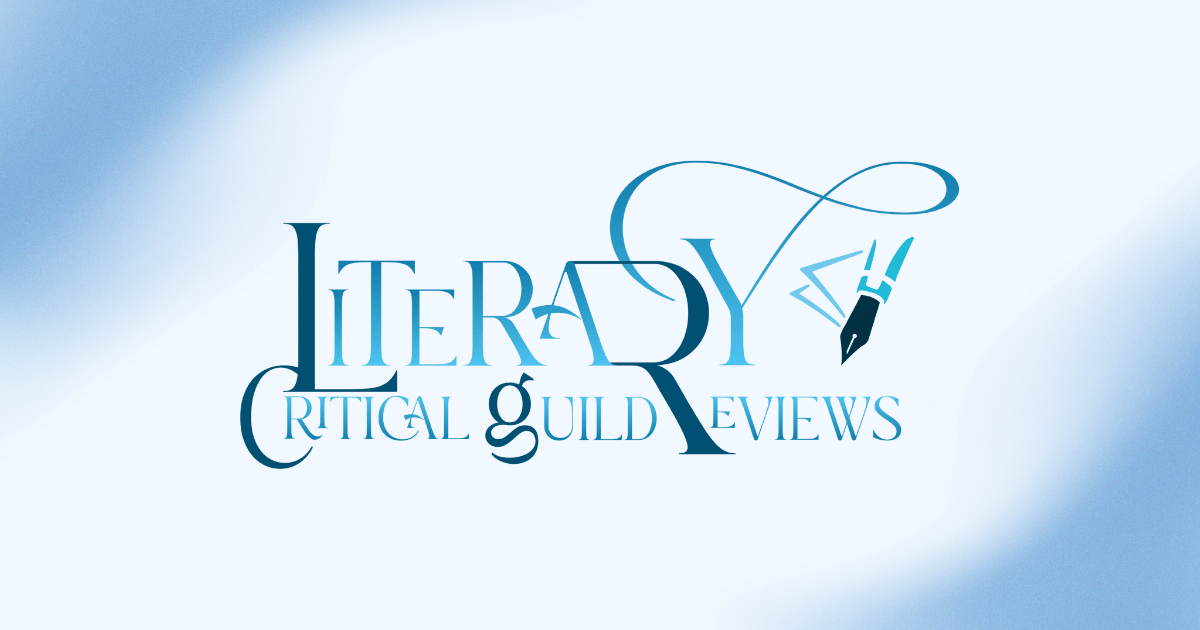
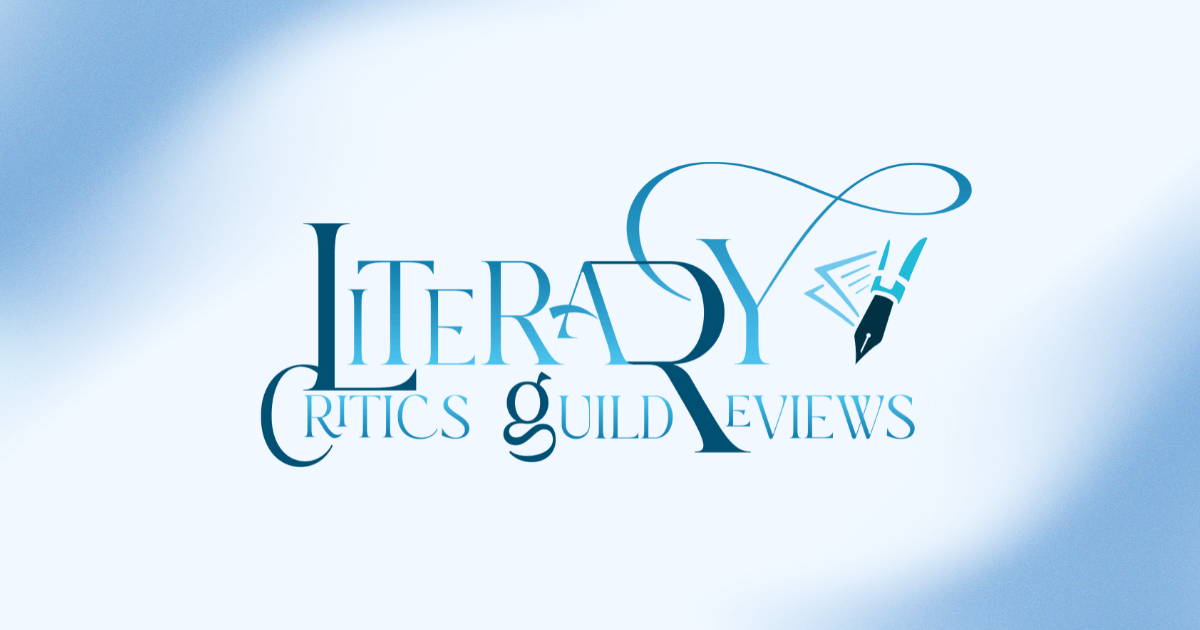
major updates

Changed region(s): [[0.185, 0.2413, 0.8325, 0.754]]

diff --git a/resources/views/layouts/app.blade.php b/resources/views/layouts/app.blade.php
@@ -6,18 +6,18 @@
 <head>
     <meta charset="utf-8">
     <meta http-equiv="x-ua-compatible" content="ie=edge">
-    <title>@yield('title') | Literary Critical Guild Reviews</title>
+    <title>@yield('title') | Literary Critics Guild Reviews</title>
     <meta name="viewport" content="width=device-width, initial-scale=1">
     <link rel="shortcut icon" type="image/x-icon" href="{{ asset('guestAssets/imgs/theme/favicon.png') }}">
 
-    <meta name="description" content="Literary Critical Guild Reviews offers in-depth reviews that explore literature's worlds and perspectives. Boost visibility and sales for both new and established books." />
-    <meta name="keywords" content="book reviews,professional book review service,literature,book marketing,author visibility,sales boost,new books,established authors,literary reviews,book discovery,in-depth book analysis,reading,book recommendations,literary critical guild reviews" />
-    <meta name="author" content="Literary Critical Guild Reviews" />
+    <meta name="description" content="Literary Critics Guild Reviews offers in-depth reviews that explore literature's worlds and perspectives. Boost visibility and sales for both new and established books." />
+    <meta name="keywords" content="book reviews,professional book review service,literature,book marketing,author visibility,sales boost,new books,established authors,literary reviews,book discovery,in-depth book analysis,reading,book recommendations,literary critics guild reviews" />
+    <meta name="author" content="Literary Critics Guild Reviews" />
 
-    <meta property="og:title" content="Literary Critical Guild Reviews" />
+    <meta property="og:title" content="Literary Critics Guild Reviews" />
     <meta property="og:type" content="website" />
-    <meta property="og:site_name" content="Literary Critical Guild Reviews" />
-    <meta property="og:description" content="Literary Critical Guild Reviews offers in-depth reviews that explore literature's worlds and perspectives. Boost visibility and sales for both new and established books." />
+    <meta property="og:site_name" content="Literary Critics Guild Reviews" />
+    <meta property="og:description" content="Literary Critics Guild Reviews offers in-depth reviews that explore literature's worlds and perspectives. Boost visibility and sales for both new and established books." />
     <meta property="og:image" content="{{ asset('guestAssets/imgs/theme/og_banner.png') }}"/>
 
     <!-- Site CSS  -->
@@ -59,7 +59,7 @@
             <div class="container">
                 <div class="row pt-20 pb-20">
                     <div class="col-md-3 col-xs-6">
-                        <a href="{{ route('home') }}"><img class="logo" width="110" src="{{ asset('guestAssets/imgs/theme/logo.png') }}" alt=""></a>
+                        <a href="{{ route('home') }}"><img class="logo" width="125" src="{{ asset('guestAssets/imgs/theme/logo.png') }}" alt=""></a>
                     </div>
                     <div class="col-md-9 col-xs-6 text-right header-top-right ">
                         <button class="search-icon d-md-inline"><span class="mr-15 text-muted"><i class="elegant-icon icon_search mr-5"></i>Search</span></button>
@@ -189,8 +189,55 @@
     <!-- Footer start -->
     <footer class="pt-50 pb-20">
         <div class="container">
+            <div class="row">
+                <div class="col-lg-3 col-md-6">
+                    <div class="sidebar-widget wow fadeInUp animated mb-30">
+                        <div class="widget-header-2 position-relative mb-30">
+                            <h5 class="mt-5 mb-30">About</h5>
+                        </div>
+                        <div class="textwidget">
+                            <h6><strong>Literary Critics Guild Reviews</strong></h6>
+                            <p>
+                                <i>We believe in the power of stories to transform and connect us.</i>
+                            </p>
+                            <p><strong class="color-black">Follow us</strong><br>
+                                <ul class="header-social-network d-inline-block list-inline color-white mb-20">
+                                    <li class="list-inline-item"><a class="fb" href="javascript:void(0)" title="Facebook"><i class="elegant-icon social_facebook"></i></a></li>
+                                </ul>
+                        </div>
+                    </div>
+                </div>
+                <div class="col-lg-2 col-md-6">
+                    <div class="sidebar-widget widget_categories wow fadeInUp animated mb-30" data-wow-delay="0.1s">
+                        <div class="widget-header-2 position-relative mb-30">
+                            <h5 class="mt-5 mb-30">Quick links</h5>
+                        </div>
+                        <ul class="font-small">
+                            <li class="cat-item cat-item-2"><a href="{{ route('home') }}">Home</a></li>
+                            <li class="cat-item cat-item-4"><a href="{{ route('latestReviewsPage') }}">Latest Reviews</a></li>
+                            <li class="cat-item cat-item-5"><a href="{{ route('contactUs') }}">Contact Us</a></li>
+                            <li class="cat-item cat-item-6"><a href="{{ route('aboutUs') }}">About Us</a></li>
+                            <li class="cat-item cat-item-7"><a href="{{ route('login') }}">Log in to Your Account</a></li>
+                        </ul>
+                    </div>
+                </div>
+                <div class="col-lg-4 col-md-6">
+                    <div class="sidebar-widget widget_newsletter wow fadeInUp animated mb-30" data-wow-delay="0.3s">
+                        <div class="widget-header-2 position-relative mb-30">
+                            <h5 class="mt-5 mb-30">Newsletter</h5>
+                        </div>
+                        <div class="newsletter">
+                            <p class="font-medium">Subscribe to our newsletter and get our newest updates right on your inbox.</p>
+                            <form class="input-group form-subcriber mt-30 d-flex">
+                                <input type="email" class="form-control bg-white font-small" placeholder="Enter your email">
+                                <button class="btn bg-primary text-white" type="submit">Subscribe</button>
+                            </form>
+                        </div>
+                    </div>
+                </div>
+            </div>
             <div class="footer-copy-right pt-30 mt-20 wow fadeInUp animated">
-                <p class="float-md-left font-medium text-muted">© 2024 Literary Critical Guild Reviews</p>
+                <p class="float-md-left font-small text-muted">© 2024 Literary Critics Guild Reviews</p>
             </div>
         </div>
     </footer>

diff --git a/resources/views/auth/admin-login.blade.php b/resources/views/auth/admin-login.blade.php
@@ -3,17 +3,17 @@
 
 <head>
     <meta charset="utf-8" />
-    <title>Login | Literary Critical Guild Reviews CMS</title>
+    <title>Login | Literary Critics Guild Reviews CMS</title>
     <meta name="viewport" content="width=device-width, initial-scale=1.0">
-    <meta name="description" content="Literary Critical Guild Reviews offers in-depth reviews that explore literature's worlds and perspectives. Boost visibility and sales for both new and established books." />
-    <meta name="keywords" content="book reviews,professional book review service,literature,book marketing,author visibility,sales boost,new books,established authors,literary reviews,book discovery,in-depth book analysis,reading,book recommendations,literary critical guild reviews" />
-    <meta name="author" content="Literary Critical Guild Reviews" />
+    <meta name="description" content="Literary Critics Guild Reviews offers in-depth reviews that explore literature's worlds and perspectives. Boost visibility and sales for both new and established books." />
+    <meta name="keywords" content="book reviews,professional book review service,literature,book marketing,author visibility,sales boost,new books,established authors,literary reviews,book discovery,in-depth book analysis,reading,book recommendations,literary critics guild reviews" />
+    <meta name="author" content="Literary Critics Guild Reviews" />
 
-    <meta property="og:title" content="Literary Critical Guild Reviews"/>
+    <meta property="og:title" content="Literary Critics Guild Reviews"/>
     <meta property="og:type" content="website"/>
     <!-- <meta property="og:url" content="https://www.yoursite.com/"/> -->
-    <meta property="og:site_name" content="Literary Critical Guild Reviews"/>
-    <meta property="og:description" content="Literary Critical Guild Reviews offers in-depth reviews that explore literature's worlds and perspectives. Boost visibility and sales for both new and established books."/>
+    <meta property="og:site_name" content="Literary Critics Guild Reviews"/>
+    <meta property="og:description" content="Literary Critics Guild Reviews offers in-depth reviews that explore literature's worlds and perspectives. Boost visibility and sales for both new and established books."/>
     <meta property="og:image" content="{{ asset('guestAssets/imgs/theme/og_banner.png') }}"/>
 
     <!-- App favicon -->
@@ -45,7 +45,7 @@
                                         <a href="index.html">
                                             <img src="{{ asset('adminAssets/images/logo-dark.png') }}" height="40" alt="logo">
                                         </a>
-                                        <h5 class="text-primary mb-2 mt-4">Welcome to Literary Critical Guild Reviews CMS!</h5>
+                                        <h5 class="text-primary mb-2 mt-4">Welcome to Literary Critics Guild Reviews CMS!</h5>
                                         <p class="text-muted">Sign in to continue</p>
                                     </div>
 
@@ -84,7 +84,7 @@
 
                         <div class="mt-5 text-center text-white">
                             <!-- <p>Don't have an account?<a href="#" class="fw-bold text-white"> Register</a> </p> -->
-                            <p>© <script>document.write(new Date().getFullYear())</script> Literary Critical Guild Reviews CMS</p>
+                            <p>© <script>document.write(new Date().getFullYear())</script> Literary Critics Guild Reviews CMS</p>
                         </div>
                     </div>
                 </div>

diff --git a/resources/views/admin-pages/unauthorized.blade.php b/resources/views/admin-pages/unauthorized.blade.php
@@ -3,17 +3,17 @@
 
 <head>
     <meta charset="utf-8" />
-    <title>Unauthorized | Literary Critical Guild Reviews CMS</title>
+    <title>Unauthorized | Literary Critics Guild Reviews CMS</title>
     <meta name="viewport" content="width=device-width, initial-scale=1.0">
-    <meta name="description" content="Literary Critical Guild Reviews offers in-depth reviews that explore literature's worlds and perspectives. Boost visibility and sales for both new and established books." />
-    <meta name="keywords" content="book reviews,professional book review service,literature,book marketing,author visibility,sales boost,new books,established authors,literary reviews,book discovery,in-depth book analysis,reading,book recommendations,literary critical guild reviews" />
-    <meta name="author" content="Literary Critical Guild Reviews" />
+    <meta name="description" content="Literary Critics Guild Reviews offers in-depth reviews that explore literature's worlds and perspectives. Boost visibility and sales for both new and established books." />
+    <meta name="keywords" content="book reviews,professional book review service,literature,book marketing,author visibility,sales boost,new books,established authors,literary reviews,book discovery,in-depth book analysis,reading,book recommendations,literary critics guild reviews" />
+    <meta name="author" content="Literary Critics Guild Reviews" />
 
-    <meta property="og:title" content="Literary Critical Guild Reviews"/>
+    <meta property="og:title" content="Literary Critics Guild Reviews"/>
     <meta property="og:type" content="website"/>
     <!-- <meta property="og:url" content="https://www.yoursite.com/"/> -->
-    <meta property="og:site_name" content="Literary Critical Guild Reviews"/>
-    <meta property="og:description" content="Literary Critical Guild Reviews offers in-depth reviews that explore literature's worlds and perspectives. Boost visibility and sales for both new and established books."/>
+    <meta property="og:site_name" content="Literary Critics Guild Reviews"/>
+    <meta property="og:description" content="Literary Critics Guild Reviews offers in-depth reviews that explore literature's worlds and perspectives. Boost visibility and sales for both new and established books."/>
     <meta property="og:image" content="{{ asset('guestAssets/imgs/theme/og_banner.png') }}"/>
 
     <!-- App favicon -->
@@ -47,7 +47,7 @@
                             </div>
                         </div>
                         <div class="mt-5 text-center text-white">
-                            <p>© <script>document.write(new Date().getFullYear())</script> Literary Critical Guild Reviews CMS</p>
+                            <p>© <script>document.write(new Date().getFullYear())</script> Literary Critics Guild Reviews CMS</p>
                         </div>
                     </div>
                 </div>

diff --git a/resources/views/admin-pages/maintenance.blade.php b/resources/views/admin-pages/maintenance.blade.php
@@ -3,17 +3,17 @@
 
 <head>
     <meta charset="utf-8" />
-    <title>Maintenance | Literary Critical Guild Reviews CMS</title>
+    <title>Maintenance | Literary Critics Guild Reviews CMS</title>
     <meta name="viewport" content="width=device-width, initial-scale=1.0">
-    <meta name="description" content="Literary Critical Guild Reviews offers in-depth reviews that explore literature's worlds and perspectives. Boost visibility and sales for both new and established books." />
-    <meta name="keywords" content="book reviews,professional book review service,literature,book marketing,author visibility,sales boost,new books,established authors,literary reviews,book discovery,in-depth book analysis,reading,book recommendations,literary critical guild reviews" />
-    <meta name="author" content="Literary Critical Guild Reviews" />
+    <meta name="description" content="Literary Critics Guild Reviews offers in-depth reviews that explore literature's worlds and perspectives. Boost visibility and sales for both new and established books." />
+    <meta name="keywords" content="book reviews,professional book review service,literature,book marketing,author visibility,sales boost,new books,established authors,literary reviews,book discovery,in-depth book analysis,reading,book recommendations,literary critics guild reviews" />
+    <meta name="author" content="Literary Critics Guild Reviews" />
 
-    <meta property="og:title" content="Literary Critical Guild Reviews"/>
+    <meta property="og:title" content="Literary Critics Guild Reviews"/>
     <meta property="og:type" content="website"/>
     <!-- <meta property="og:url" content="https://www.yoursite.com/"/> -->
-    <meta property="og:site_name" content="Literary Critical Guild Reviews"/>
-    <meta property="og:description" content="Literary Critical Guild Reviews offers in-depth reviews that explore literature's worlds and perspectives. Boost visibility and sales for both new and established books."/>
+    <meta property="og:site_name" content="Literary Critics Guild Reviews"/>
+    <meta property="og:description" content="Literary Critics Guild Reviews offers in-depth reviews that explore literature's worlds and perspectives. Boost visibility and sales for both new and established books."/>
     <meta property="og:image" content="{{ asset('guestAssets/imgs/theme/og_banner.png') }}"/>
 
     <!-- App favicon -->
@@ -47,7 +47,7 @@
                         </div>
 
                         <div class="mt-5 text-center text-white">
-                            <p>© <script>document.write(new Date().getFullYear())</script> Literary Critical Guild Reviews CMS</p>
+                            <p>© <script>document.write(new Date().getFullYear())</script> Literary Critics Guild Reviews CMS</p>
                         </div>
                     </div>
                 </div>

diff --git a/resources/views/layouts/sidebar.blade.php b/resources/views/layouts/sidebar.blade.php
@@ -5,17 +5,17 @@
 
 <head>
     <meta charset="utf-8" />
-    <title>@yield('title') | Literary Critical Guild Reviews</title>
+    <title>@yield('title') | Literary Critics Guild Reviews</title>
     <meta name="viewport" content="width=device-width, initial-scale=1.0">
-    <meta name="description" content="Literary Critical Guild Reviews offers in-depth reviews that explore literature's worlds and perspectives. Boost visibility and sales for both new and established books." />
-    <meta name="keywords" content="book reviews,professional book review service,literature,book marketing,author visibility,sales boost,new books,established authors,literary reviews,book discovery,in-depth book analysis,reading,book recommendations,literary critical guild reviews" />
-    <meta name="author" content="Literary Critical Guild Reviews" />
+    <meta name="description" content="Literary Critics Guild Reviews offers in-depth reviews that explore literature's worlds and perspectives. Boost visibility and sales for both new and established books." />
+    <meta name="keywords" content="book reviews,professional book review service,literature,book marketing,author visibility,sales boost,new books,established authors,literary reviews,book discovery,in-depth book analysis,reading,book recommendations,literary critics guild reviews" />
+    <meta name="author" content="Literary Critics Guild Reviews" />
 
-    <meta property="og:title" content="Literary Critical Guild Reviews"/>
+    <meta property="og:title" content="Literary Critics Guild Reviews"/>
     <meta property="og:type" content="website"/>
     <!-- <meta property="og:url" content="https://www.yoursite.com/"/> -->
-    <meta property="og:site_name" content="Literary Critical Guild Reviews"/>
-    <meta property="og:description" content="Literary Critical Guild Reviews offers in-depth reviews that explore literature's worlds and perspectives. Boost visibility and sales for both new and established books."/>
+    <meta property="og:site_name" content="Literary Critics Guild Reviews"/>
+    <meta property="og:description" content="Literary Critics Guild Reviews offers in-depth reviews that explore literature's worlds and perspectives. Boost visibility and sales for both new and established books."/>
     <meta property="og:image" content="{{ asset('guestAssets/imgs/theme/og_banner.png') }}"/>
 
     <!-- App favicon -->
@@ -205,7 +205,7 @@
                 <div class="row">
                     <div class="col-sm-6">
                         ©
-                        <script>document.write(new Date().getFullYear())</script> Literary Critical Guild Reviews
+                        <script>document.write(new Date().getFullYear())</script> Literary Critics Guild Reviews
                     </div>
                 </div>
             </div>

diff --git a/resources/views/client-pages/about-us.blade.php b/resources/views/client-pages/about-us.blade.php
@@ -18,7 +18,7 @@
                 <h3 class="custom-about-us">About Us</h3>
                 <hr class="wp-block-separator is-style-wide">
                 <p class="font-large">
-                    At <strong>Literary Critical Guild Reviews</strong>, we are passionate about exploring literature and offering in-depth reviews that capture the essence of each book. Our goal is to help you discover new worlds and perspectives through thoughtful and engaging critiques.
+                    At <strong>Literary Critics Guild Reviews</strong>, we are passionate about exploring literature and offering in-depth reviews that capture the essence of each book. Our goal is to help you discover new worlds and perspectives through thoughtful and engaging critiques.
                     <br />
                     <br />
                     Enhance your marketing strategy with our expert reviews, tailored specifically for both new and established authors. Our insights are designed to get your book noticed and boost sales, providing the visibility and impact you need to succeed.

diff --git a/resources/views/client-pages/contact-us.blade.php b/resources/views/client-pages/contact-us.blade.php
@@ -17,7 +17,7 @@
         </div>
         <div class="container single-content">
             <div class="entry-wraper mt-50">
-                <p class="font-large">We are <strong>Literary Critical Guild Reviews</strong>, passionate about exploring literature, offering in-depth reviews that capture the essence of each book, helping you discover new worlds and perspectives. Enhance your marketing with our expert reviews, tailored for both new and established authors, to get your book noticed and boost sales instantly.</p>
+                <p class="font-large">We are <strong>Literary Critics Guild Reviews</strong>, passionate about exploring literature, offering in-depth reviews that capture the essence of each book, helping you discover new worlds and perspectives. Enhance your marketing with our expert reviews, tailored for both new and established authors, to get your book noticed and boost sales instantly.</p>
                 <br />
 
                 <h3 class="mt-30"><i class="bi bi-envelope"></i>&nbsp;&nbsp;Email us</h3>

diff --git a/resources/views/client-pages/home.blade.php b/resources/views/client-pages/home.blade.php
@@ -28,7 +28,7 @@
             </div>
         </div>
     </div>
-
+    <br />
     <div class="container">
         <div class="hot-tags pt-30 pb-30 font-small align-self-center">
             <div class="widget-header-3">
@@ -77,6 +77,7 @@
         </div>
     </div>
 
+    <div class="featured-1">
     <div class="container">
         <div class="post-module-3">
             <div class="widget-header-1 position-relative mb-30">
@@ -133,9 +134,11 @@
                 &nbsp;
             @endif
         </div>
+        </div>
+    </div>
 
         <br /><br />
-        <div class="">
+        <div class="container">
             <div class="sidebar-widget widget_tagcloud wow fadeInUp animated mb-30" data-wow-delay="0.2s">
                 <div class="widget-header-2 position-relative mb-30">
                     <h5 class="mt-5 mb-30">Discover Books</h5>
@@ -153,7 +156,7 @@
                 </div>
             </div>
         </div>
-    </div>
+    
 </main>
 
 @endsection

diff --git a/resources/views/admin-pages/index.blade.php b/resources/views/admin-pages/index.blade.php
@@ -13,7 +13,7 @@
             <div class="row align-items-center">
                 <div class="">
                     <div class="page-title">
-                        <h2 class="page-title-custom">Literary Critical Guild Reviews | Content Management System</h2>
+                        <h2 class="page-title-custom">Literary Critics Guild Reviews | Content Management System</h2>
                         <p class="page-title-custom">Dashboard</p>
                     </div>
                 </div>
